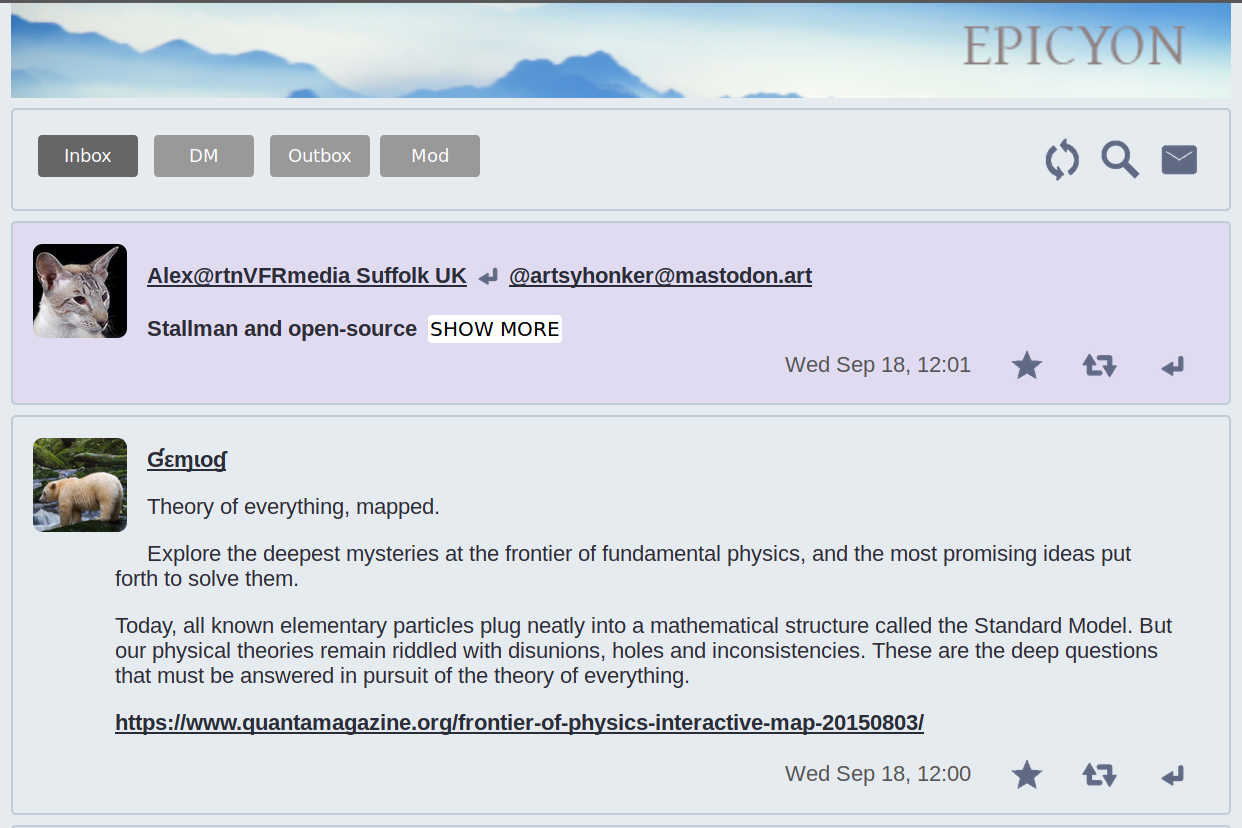
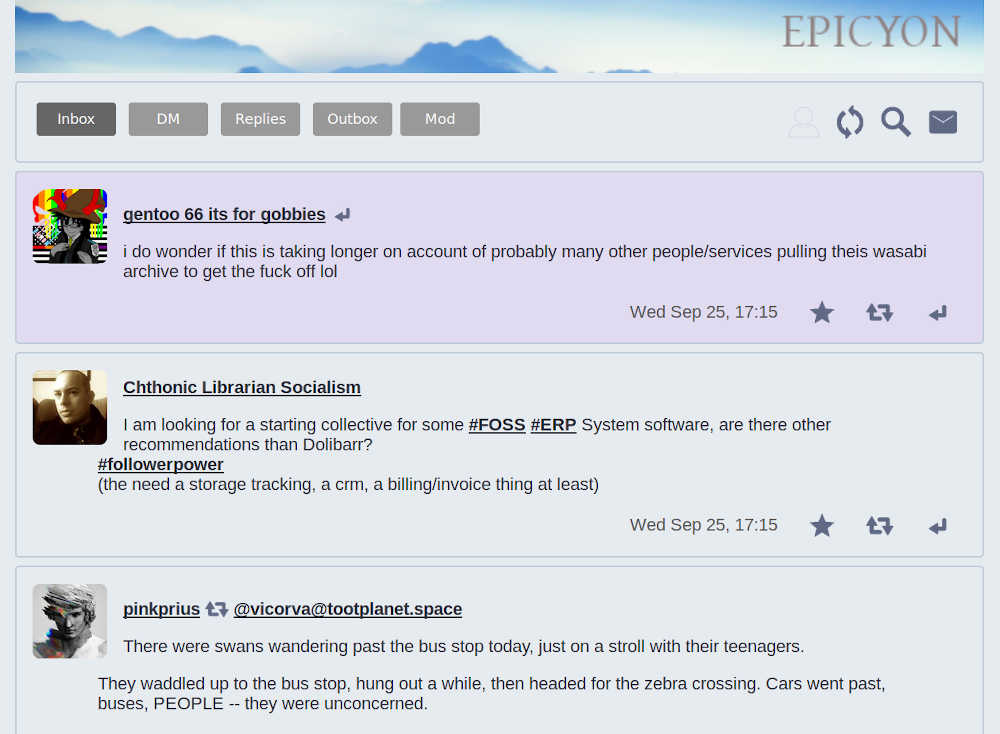
Extra light screenshot

diff --git a/website/index.html b/website/index.html
@@ -1180,7 +1180,8 @@ footer {
           <p class="intro">
                 Epicyon supports many languages. Translations and emoji can easily be added. Alter the logo, backgrounds, terms of service and style to create a unique personality for your instance. Choose from a few different themes, or make a new one.
           </p>
-	  <img width="50%" src="img/screenshot_light.jpg" alt="light theme timeline screenshot"/>
+	  <img width="70%" src="img/screenshot_light.jpg" alt="light theme timeline screenshot"/>
+	  <img width="70%" src="img/screenshot_light2.jpg" alt="light theme profile page screenshot"/>
           <p class="siteheader">Genuine Sharing Economy</p>
           <p class="intro">
                 Barter and gift physical items or services with other people on your instance. Search for shared items which you might want or post items you no longer have a use for. Pool resources between trusted friends to build solidarity and have fun.
